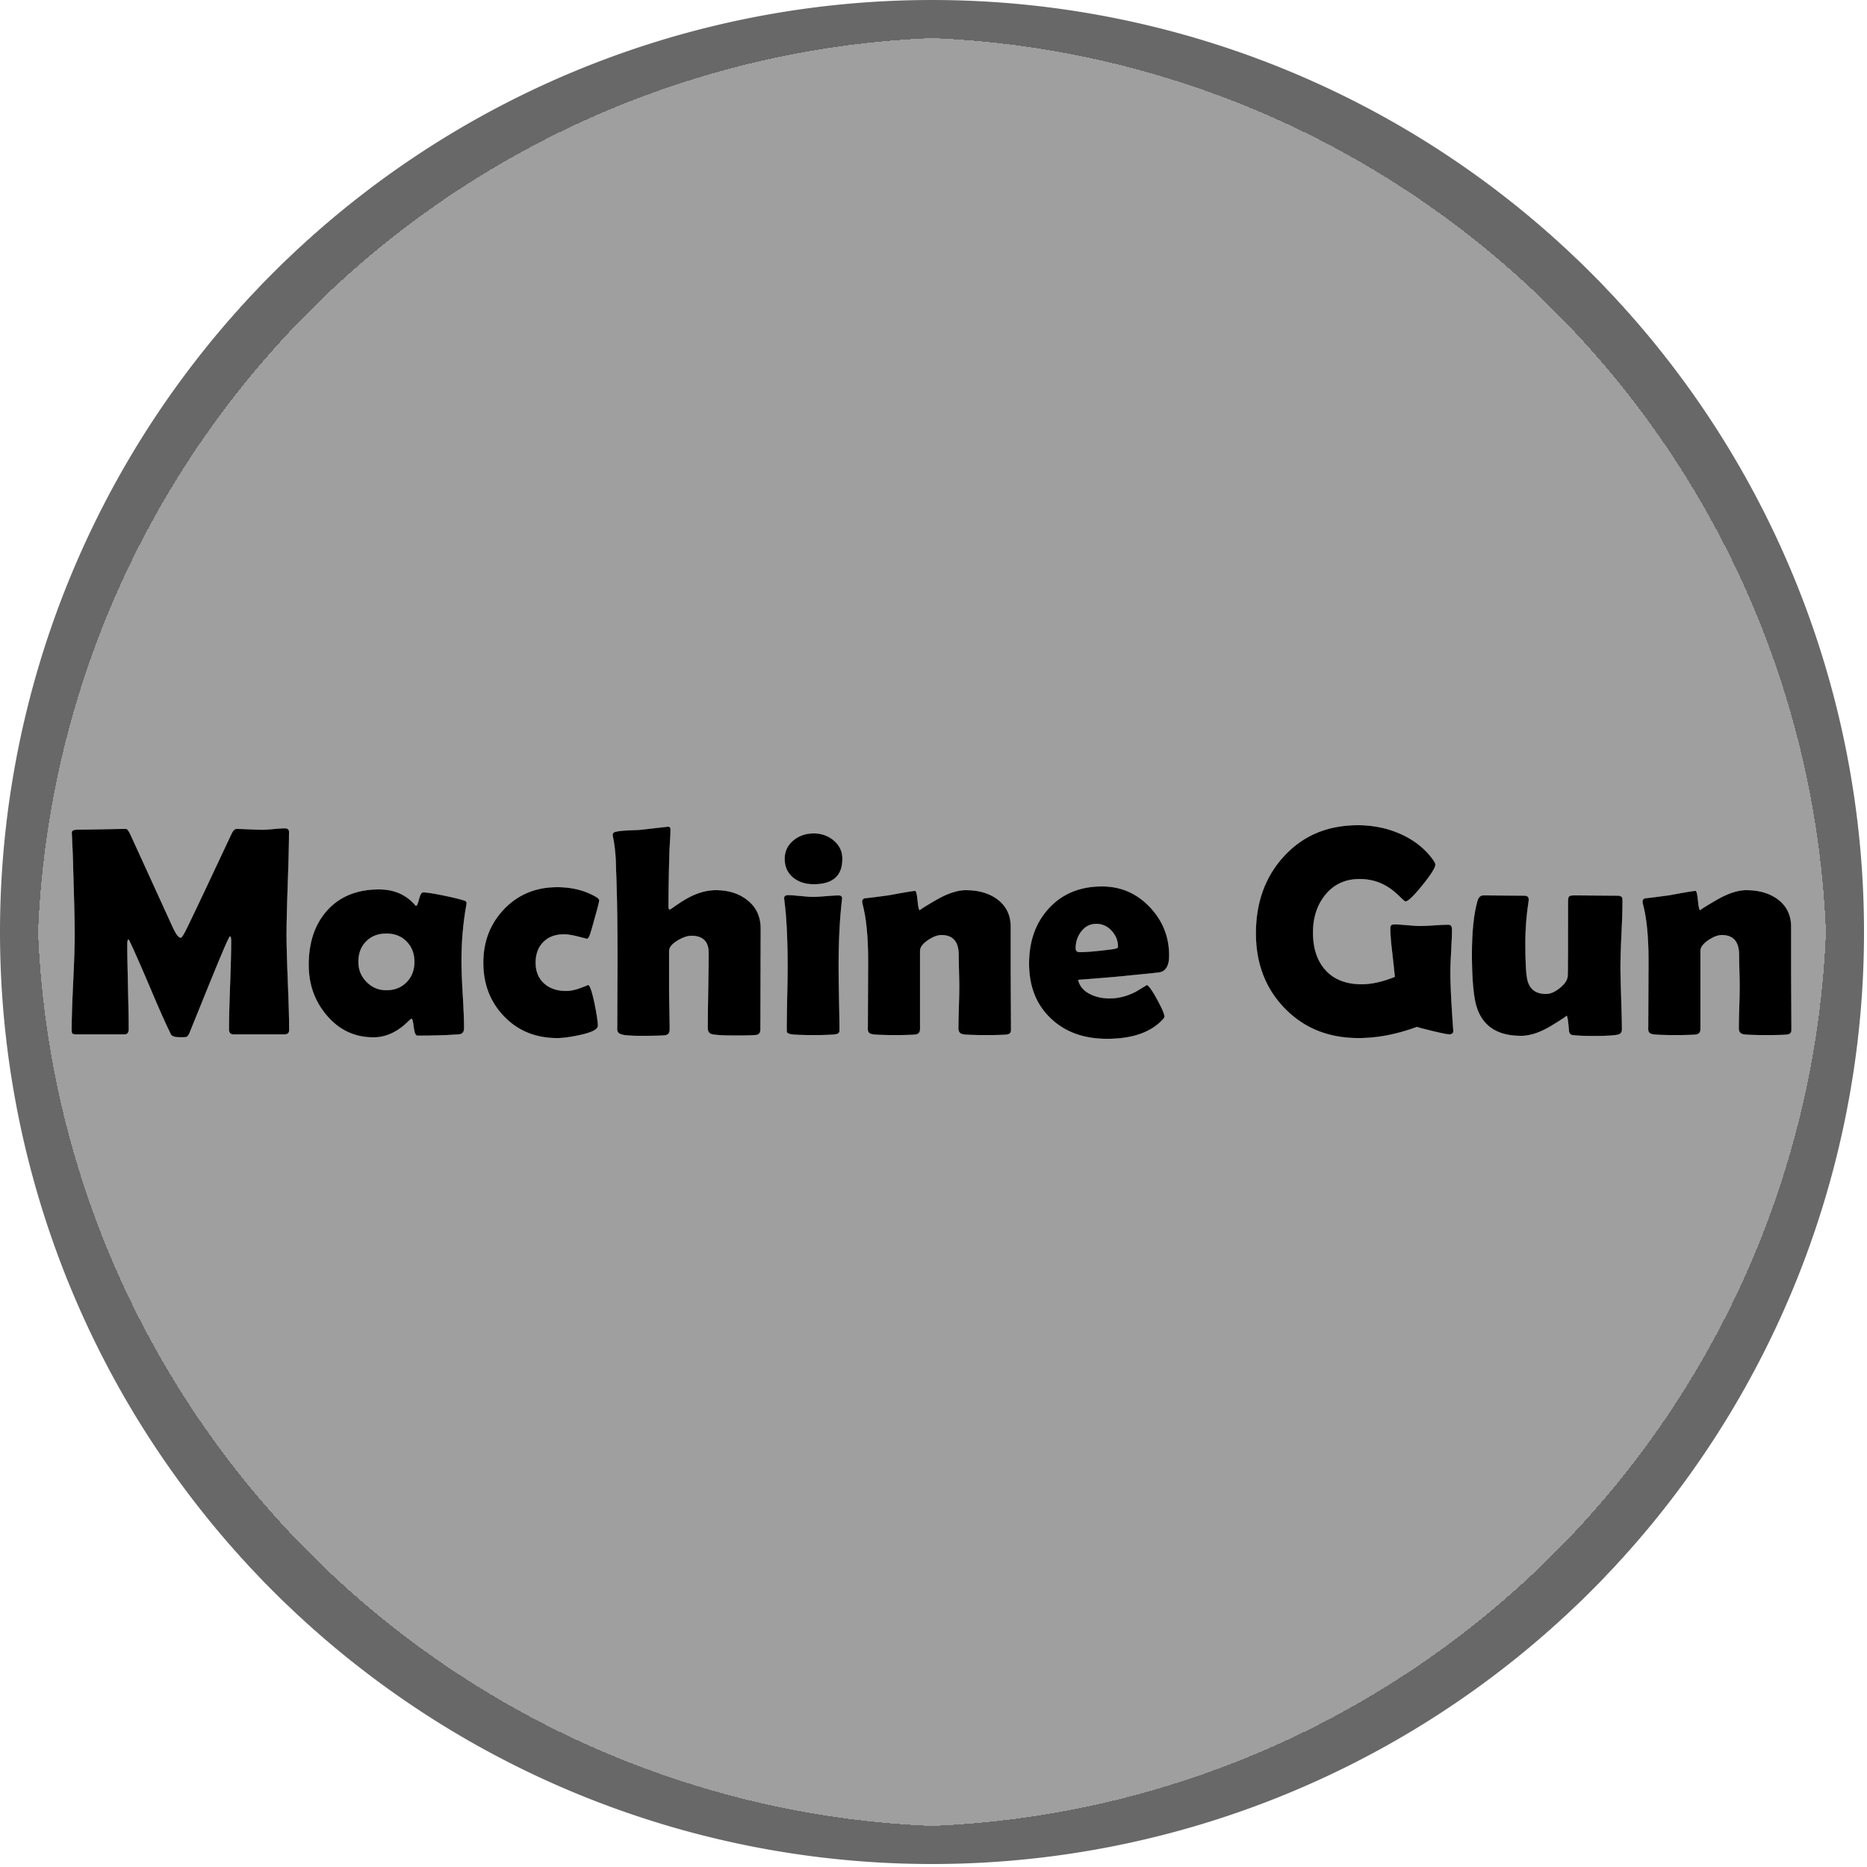
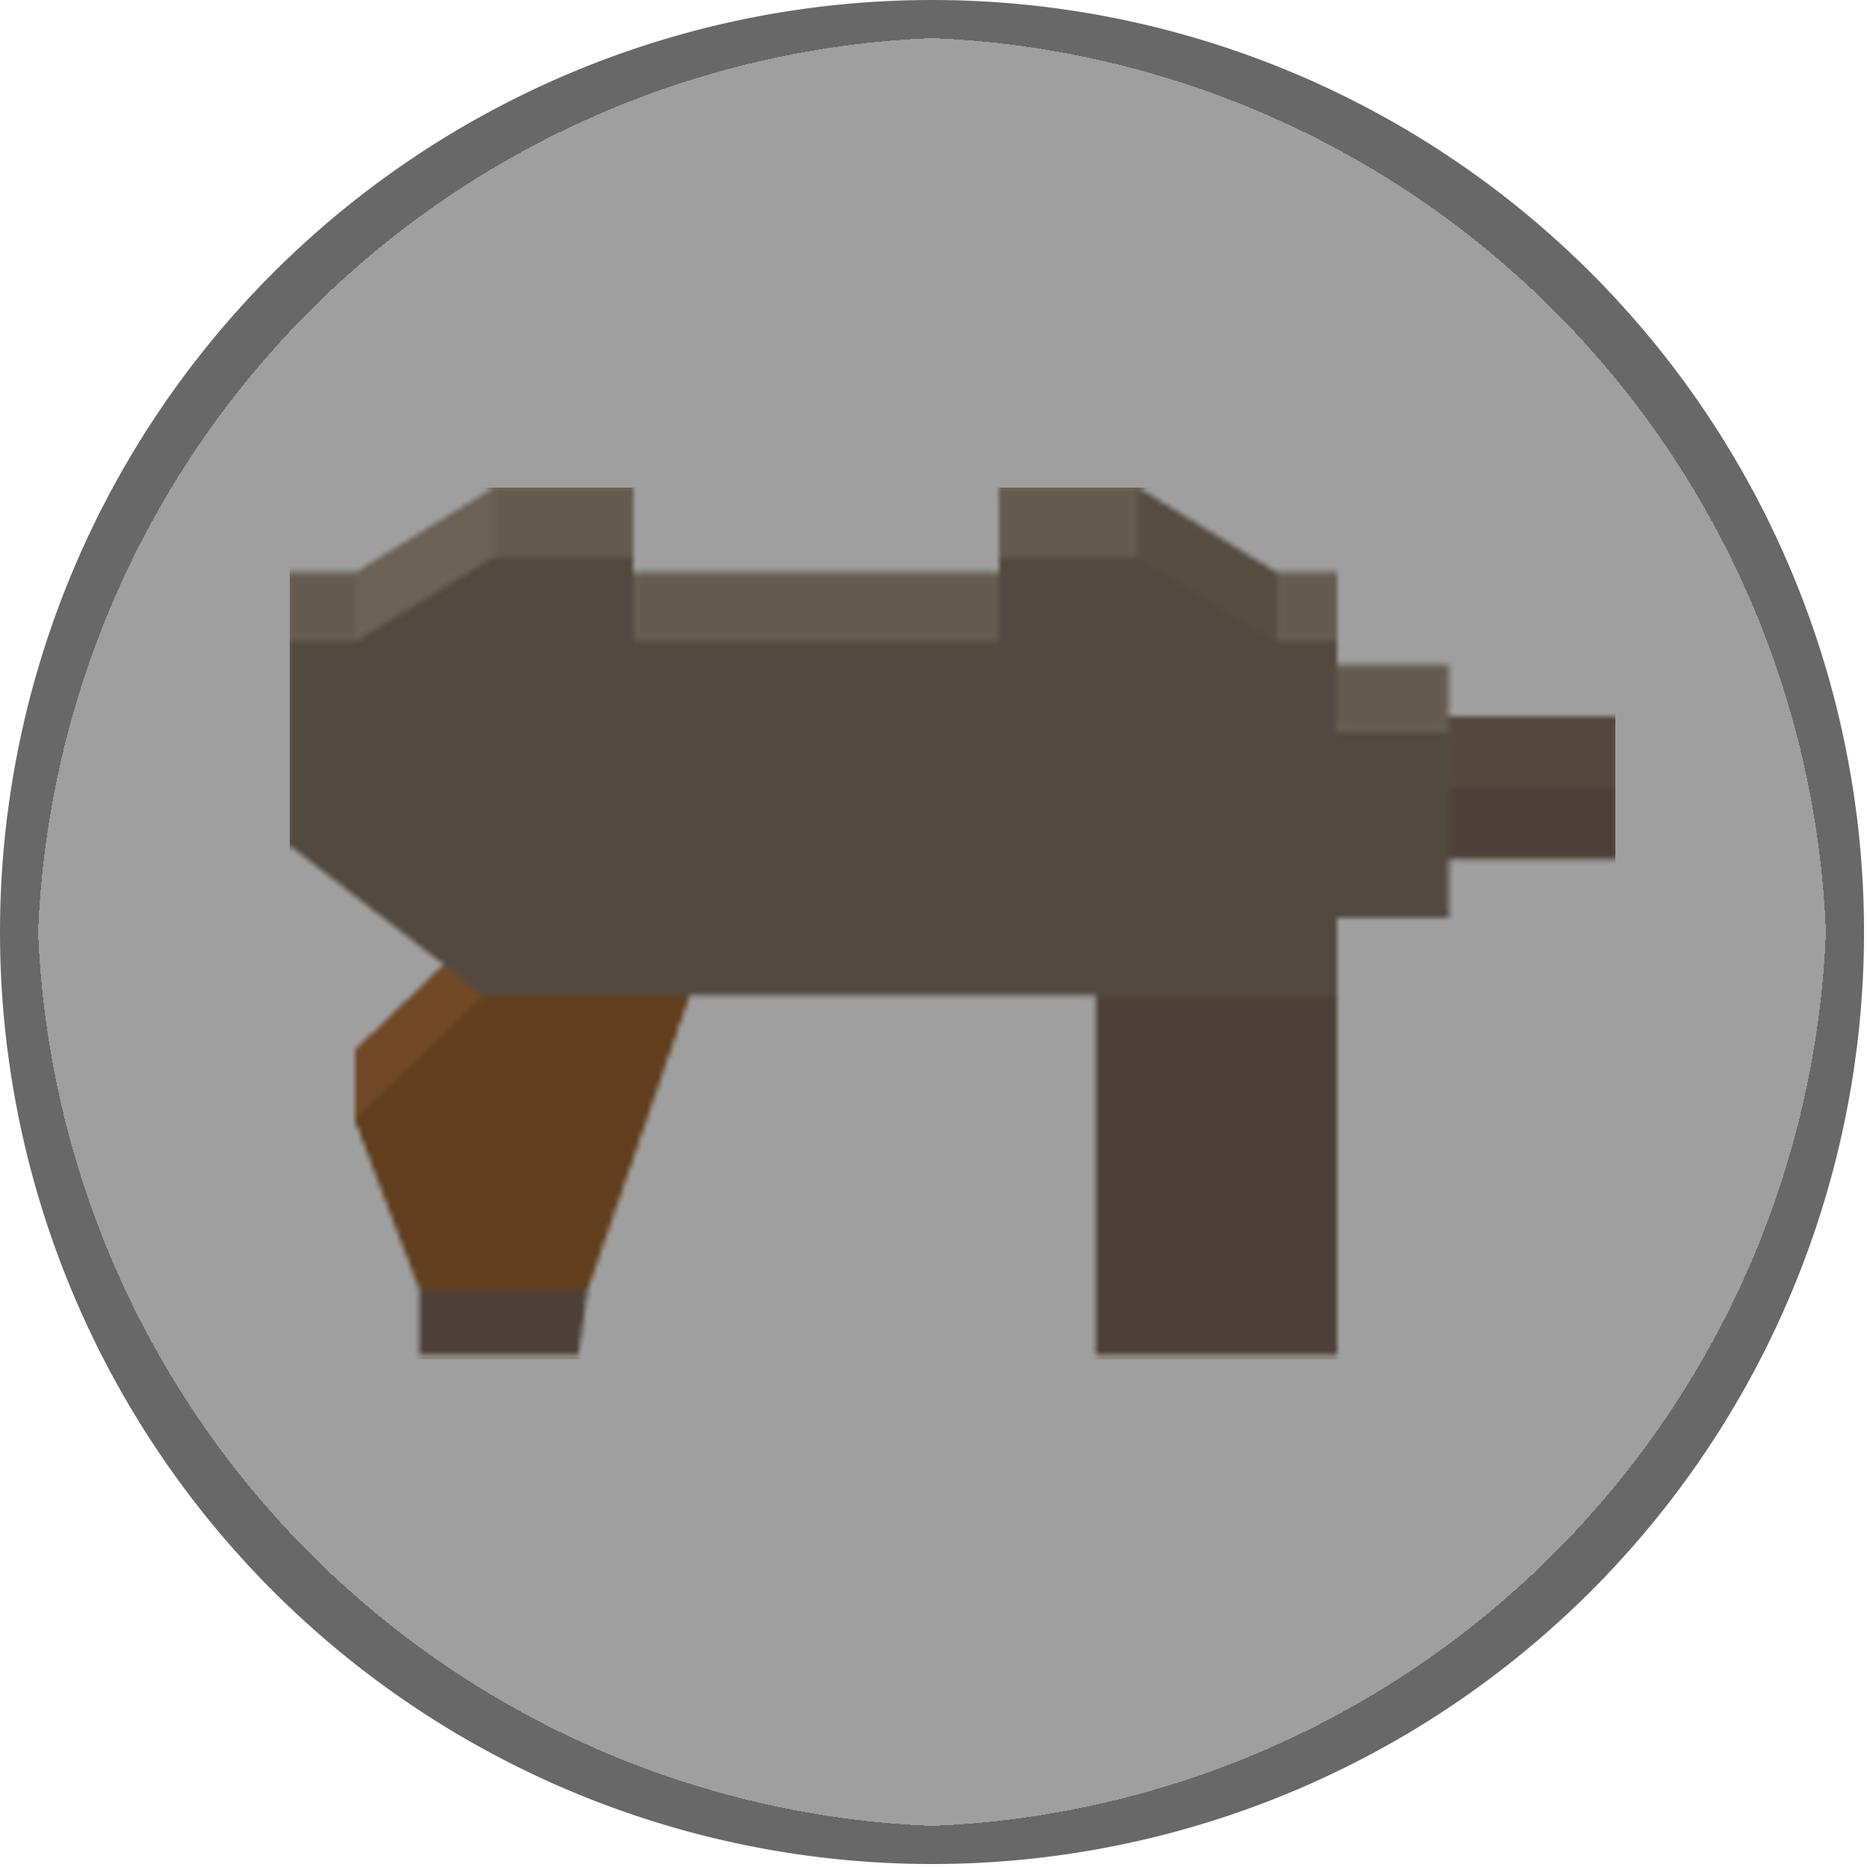
Newest menu with working weapon and seed buttons, removed some old textures

Changed region(s): [[0.0312, 0.2496, 0.9672, 0.7488]]

diff --git a/hcg/src/main/java/com/deco2800/hcg/contexts/playContextClasses/GeneralRadialDisplay.java b/hcg/src/main/java/com/deco2800/hcg/contexts/playContextClasses/GeneralRadialDisplay.java
@@ -27,6 +27,7 @@ import com.deco2800.hcg.entities.Player;
 import com.deco2800.hcg.entities.corpse_entities.Corpse;
 import com.deco2800.hcg.entities.garden_entities.plants.Pot;
 import com.deco2800.hcg.entities.garden_entities.seeds.Seed;
+import com.deco2800.hcg.entities.bullets.BulletType;
 import com.deco2800.hcg.managers.GameManager;
 import com.deco2800.hcg.managers.PlantManager;
 import com.deco2800.hcg.managers.PlayerManager;
@@ -40,10 +41,13 @@ import com.deco2800.hcg.items.stackable.HealthPotion;
 import com.deco2800.hcg.items.stackable.SmallMushroom;
 import com.deco2800.hcg.items.stackable.SpeedPotion;
 import com.deco2800.hcg.items.stackable.MagicMushroom;
+import com.deco2800.hcg.items.tools.Trowel;
+import com.deco2800.hcg.items.tools.Hoe;
 import com.deco2800.hcg.items.tools.Fertiliser;
 import com.deco2800.hcg.items.tools.Tool;
 import com.deco2800.hcg.items.tools.BugSpray;
 import com.deco2800.hcg.inventory.PlayerEquipment;
+import com.deco2800.hcg.weapons.Weapon;
 
 
 public class GeneralRadialDisplay extends Group {
@@ -51,11 +55,12 @@ public class GeneralRadialDisplay extends Group {
     private TextureManager textureManager;
     private GameManager gameManager;
     private SoundManager soundManager;
+    private PlayerManager playerManager;
 
     private boolean active;
     private PlayerEquipment equippedItems;
     private Inventory inventory;
-    private String seedHighlight;
+    private BulletType bulletType;
     
     private List<ImageButton> buttons;
     private List<Label> counts;
@@ -93,10 +98,10 @@ public class GeneralRadialDisplay extends Group {
         textureManager = (TextureManager) gameManager.getManager(TextureManager.class);
         plantManager = (PlantManager) gameManager.getManager(PlantManager.class);
         soundManager = (SoundManager) gameManager.getManager(SoundManager.class);
+        playerManager = (PlayerManager) gameManager.getManager(PlayerManager.class);
 
         this.stage = stage;
         this.active = false;
-        this.seedHighlight = "sunflower";
 
 		FreeTypeFontGenerator generator = new FreeTypeFontGenerator(Gdx.files.internal("resources/ui/radial_menu/advent_pro.ttf"));
 		FreeTypeFontParameter parameter = new FreeTypeFontParameter();
@@ -105,12 +110,11 @@ public class GeneralRadialDisplay extends Group {
 		style = new LabelStyle(font, Color.valueOf("#FFFFFF"));
 		generator.dispose();
 
-		equippedItems = PlayerEquipment.getPlayerEquipment();
 		inventory = ((PlayerManager)GameManager.get().getManager(PlayerManager.class)).getPlayer().getInventory();
+		playerManager.getPlayer().getEquippedWeapon().setBulletType(BulletType.BASIC);
 		
         setupSprites();
         setupListeners();
-        //updateCount();
         
         display = new Group();
 
@@ -172,6 +176,7 @@ public class GeneralRadialDisplay extends Group {
 		sprites.put("outline", "radialOutline");
 		sprites.put("machineGun", "machineGun");
 		sprites.put("shotgun", "shotgun");
+		sprites.put("scatterGun", "scatterGun");
 		sprites.put("starfall", "starfall");
 		sprites.put("fertiliser", "fertiliser_btn");
 		sprites.put("bug_spray", "bugspray_btn");
@@ -179,8 +184,10 @@ public class GeneralRadialDisplay extends Group {
 		sprites.put("speed_potion", "speedPotion");
 		sprites.put("magic_mushroom", "magicMushroom");
 		sprites.put("small_mushroom", "smallMushroom");
-		sprites.put("bunnings_snag_and_bread", "snag_btn");
-		sprites.put("bunnings_snag", "sausage_btn");
+		sprites.put("hoe", "hoe");
+		sprites.put("trowel", "trowel");
+		sprites.put("snag_btn", "snag_btn");
+		sprites.put("sausage_btn", "sausage_btn");
 	}
 	
 	private void setupListeners() {
@@ -231,91 +238,70 @@ public class GeneralRadialDisplay extends Group {
 		listeners.put("sunflowerC", new ChangeListener() {
 			@Override
 			public void changed(ChangeEvent event, Actor actor) {
-				equippedItems.setEquippedSlot(0);
-				if(getSeedHighlight() != "basic") {
-					Image highlight = new Image(textureManager.getTexture("highlight"));
-					highlight.setSize(X_SIZE_MAX,Y_SIZE_MAX);
-					highlight.setPosition(getButtonX(0), getButtonY(0));
-					setSeedHighlight("basic");
-				}
+				playerManager.getPlayer().getEquippedWeapon().setBulletType(BulletType.BASIC);
 			}
 		});
 
 		listeners.put("waterC", new ChangeListener() {
 			@Override
 			public void changed(ChangeEvent event, Actor actor) {
-				equippedItems.setEquippedSlot(1);
-				if(getSeedHighlight() != "water") {
-
-					setSeedHighlight("water");
-				}
+				playerManager.getPlayer().getEquippedWeapon().setBulletType(BulletType.HOMING);
 			}
 		});
 
 		listeners.put("iceC", new ChangeListener() {
 			@Override
 			public void changed(ChangeEvent event, Actor actor) {
-				equippedItems.setEquippedSlot(2);
-				if(getSeedHighlight() != "ice") {
-					setSeedHighlight("ice");
-				}
+				playerManager.getPlayer().getEquippedWeapon().setBulletType(BulletType.ICE);
 			}
 		});
 
 		listeners.put("fireC", new ChangeListener() {
 			@Override
 			public void changed(ChangeEvent event, Actor actor) {
-				equippedItems.setEquippedSlot(3);
-				if(getSeedHighlight() != "fire") {
-					setSeedHighlight("fire");
-				}
+				playerManager.getPlayer().getEquippedWeapon().setBulletType(BulletType.FIRE);
 			}
 		});
 
 		listeners.put("explosiveC", new ChangeListener() {
 			@Override
 			public void changed(ChangeEvent event, Actor actor) {
-				equippedItems.setEquippedSlot(4);
-				if(getSeedHighlight() != "explosive") {
-					setSeedHighlight("explosive");
-				}
+				playerManager.getPlayer().getEquippedWeapon().setBulletType(BulletType.EXPLOSION);
 			}
 		});
 
 		listeners.put("grassC", new ChangeListener() {
 			@Override
 			public void changed(ChangeEvent event, Actor actor) {
-				equippedItems.setEquippedSlot(5);
-				if(getSeedHighlight() != "grass") {
-					setSeedHighlight("grass");
-				}
+				playerManager.getPlayer().getEquippedWeapon().setBulletType(BulletType.GRASS);
 			}
 		});
 
 		listeners.put("machineGun", new ChangeListener() {
 			@Override
 			public void changed(ChangeEvent event, Actor actor) {
-				//PlayerEquipment.cycleEquippedSlot();
-				//weaponType = weaponType.MACHINEGUN;
-			    ((PlayerManager) gameManager.getManager(PlayerManager.class)).getPlayer().setEquipped(0);
+				playerManager.getPlayer().setEquipped(0);
 			}
 		});
 
 		listeners.put("shotgun", new ChangeListener() {
 			@Override
 			public void changed(ChangeEvent event, Actor actor) {
-				//PlayerEquipment.cycleEquippedSlot();
-				//weaponType = weaponType.SHOTGUN;
-			    ((PlayerManager) gameManager.getManager(PlayerManager.class)).getPlayer().setEquipped(1);
+				playerManager.getPlayer().setEquipped(1);
+			}
+		});
+
+		listeners.put("scatterGun", new ChangeListener() {
+			@Override
+			public void changed(ChangeEvent event, Actor actor) {
+				playerManager.getPlayer().setEquipped(2);
 			}
 		});
 
 		listeners.put("starfall", new ChangeListener() {
 			@Override
 			public void changed(ChangeEvent event, Actor actor) {
-				//PlayerEquipment.cycleEquippedSlot();
-				//weaponType = weaponType.STARFALL;
-			    ((PlayerManager) gameManager.getManager(PlayerManager.class)).getPlayer().setEquipped(3);
+			    playerManager.getPlayer().setEquipped(3);
 			}
 		});
 
@@ -355,6 +341,34 @@ public class GeneralRadialDisplay extends Group {
 		});
 
 		listeners.put("small_mushroom", new ChangeListener() {
+			@Override
+			public void changed(ChangeEvent event, Actor actor) {
+				useItem(new SmallMushroom());
+			}
+		});
+
+		listeners.put("hoe", new ChangeListener() {
+			@Override
+			public void changed(ChangeEvent event, Actor actor) {
+				//useItem(new Hoe());
+			}
+		});
+
+		listeners.put("trowel", new ChangeListener() {
+			@Override
+			public void changed(ChangeEvent event, Actor actor) {
+				//useItem(new Trowel());
+			}
+		});
+
+		listeners.put("sausage_btn", new ChangeListener() {
+			@Override
+			public void changed(ChangeEvent event, Actor actor) {
+				useItem(new SmallMushroom());
+			}
+		});
+
+		listeners.put("snag_btn", new ChangeListener() {
 			@Override
 			public void changed(ChangeEvent event, Actor actor) {
 				useItem(new SmallMushroom());
@@ -533,7 +547,8 @@ public class GeneralRadialDisplay extends Group {
 			} else if(type.equals("sunflowerC") || type.equals("waterC") || type.equals("cactusC") || type.equals("iceC") || 
 					type.equals("fireC") || type.equals("explosiveC") || type.equals("grassC")) {
 				count = getCount(type.substring(0, type.length() - 1) + "_seed");
-			} else if(type.equals("machineGun") || type.equals("starfall") || type.equals("shotgun"));
+			} else if(type.equals("machineGun") || type.equals("starfall") || type.equals("scatterGun") || type.equals("shotgun") ||
+					type.equals("hoe") || type.equals("trowel"));
 			else if(type.equals("health_potion")) {
 				count = getCount("red_potion");
 			} else if(type.equals("speed_potion")) {
@@ -558,13 +573,5 @@ public class GeneralRadialDisplay extends Group {
 				button.setDisabled(false);
 			}
 		}
-	}
-
-    private void setSeedHighlight(String seed) {
-    	this.seedHighlight = seed;
-	}
-
-    private String getSeedHighlight() {
-    	return seedHighlight;
 	}
 }

diff --git a/hcg/src/main/java/com/deco2800/hcg/managers/TextureManager.java b/hcg/src/main/java/com/deco2800/hcg/managers/TextureManager.java
@@ -310,12 +310,9 @@ public class TextureManager extends Manager {
 			textureMap.put("fertiliser_btn", new Texture("resources/ui/radial_menu/fertiliser.png"));
 			textureMap.put("menuClose", new Texture("resources/ui/radial_menu/menu_close.png"));
 			textureMap.put("radialOutline", new Texture("resources/ui/radial_menu/radialOutline.png"));
-			textureMap.put("seedSelect", new Texture("resources/ui/radial_menu/seed_select.png"));
-			textureMap.put("consumables", new Texture("resources/ui/radial_menu/consumables.png"));
-			textureMap.put("weapsLeft", new Texture("resources/ui/radial_menu/weapons_left.png"));
-			textureMap.put("weapsRight", new Texture("resources/ui/radial_menu/weapons_right.png"));
 			textureMap.put("machineGun", new Texture("resources/ui/radial_menu/machine_gun.png"));
 			textureMap.put("shotgun", new Texture("resources/ui/radial_menu/shotgun.png"));
+			textureMap.put("scatterGun", new Texture("resources/ui/radial_menu/scatter_gun.png"));
 			textureMap.put("starfall", new Texture("resources/ui/radial_menu/starfall.png"));
 			textureMap.put("healthPotion", new Texture("resources/ui/radial_menu/health_potion.png"));
 			textureMap.put("key", new Texture("resources/ui/radial_menu/key_button.png"));
@@ -323,13 +320,15 @@ public class TextureManager extends Manager {
 			textureMap.put("smallMushroom", new Texture("resources/ui/radial_menu/smallmushroom_button.png"));
 			textureMap.put("speedPotion", new Texture("resources/ui/radial_menu/speed_potion.png"));
 			textureMap.put("shovel", new Texture("resources/ui/radial_menu/shovel_button.png"));
-			textureMap.put("highlight", new Texture("resources/ui/radial_menu/highlight.png"));
+			textureMap.put("hoe", new Texture("resources/ui/radial_menu/hoe_button.png"));
+			textureMap.put("trowel", new Texture("resources/ui/radial_menu/trowel_button.png"));
+			textureMap.put("snag_btn", new Texture("resources/ui/radial_menu/sausage_button.png"));
+			textureMap.put("sausage_btn", new Texture("resources/ui/radial_menu/hotdog_button.png"));
 
 			//PlayerStatusHud
 			textureMap.put("player_normal_border", new Texture("resources/ui/player_status_hud/" +
 					"player_normal_border.png"));
 			textureMap.put("health_bar_pixel", new Texture("resources/ui/player_status_hud/health_bar_pixel.png"));
-
 			//Perks General
 			textureMap.put("perk_border_inactive", new Texture("resources/ui/perks/perk_border_inactive.png"));
 			textureMap.put("perk_border_maxed", new Texture("resources/ui/perks/perk_border_maxed.png"));
@@ -338,7 +337,6 @@ public class TextureManager extends Manager {
 			//Perk Images
 			textureMap.put("Holly_Moley", new Texture("resources/ui/perks/perk_place_holder.png"));
 			textureMap.put("Whoa_Black_Betty,_Bramble-am", new Texture("resources/ui/perks/perk_place_holder.png"));
-
 			//Shop textures
 			textureMap.put("shop_title", new Texture("resources/ui/shop_ui/shop_title.png"));
 			textureMap.put("buy_bag", new Texture("resources/ui/shop_ui/buy_bag.png"));

diff --git a/hcg/src/main/java/com/deco2800/hcg/contexts/PlayContext.java b/hcg/src/main/java/com/deco2800/hcg/contexts/PlayContext.java
@@ -152,10 +152,10 @@ public class PlayContext extends Context {
         List<String> plantList = Arrays.asList(plantItems);
         seedItems = new String[]{"sunflowerC", "waterC", "iceC", "explosiveC","fireC","grassC"};
         List<String> seedList = Arrays.asList(seedItems);
-        weaponItems = new String[]{"machineGun", "shotgun", "starfall"};
+        weaponItems = new String[]{"machineGun", "shotgun", "scatterGun", "starfall"};
         List<String> weapList = Arrays.asList(weaponItems);
         consumableItems = new String[]{"fertiliser", "bug_spray", "health_potion", "speed_potion",
-                "magic_mushroom", "small_mushroom"};
+                "magic_mushroom", "small_mushroom", "snag_btn", "sausage_btn", "hoe", "trowel"};
         List<String> consumableList = Arrays.asList(consumableItems);
 
         weaponRadialDisplay = new GeneralRadialDisplay(stage, weapList);
